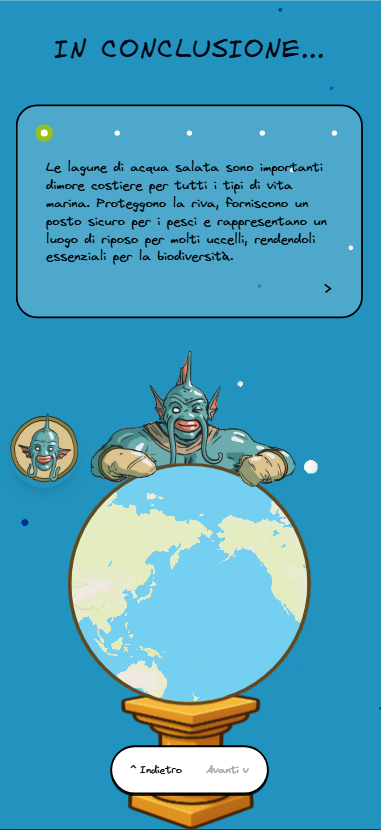
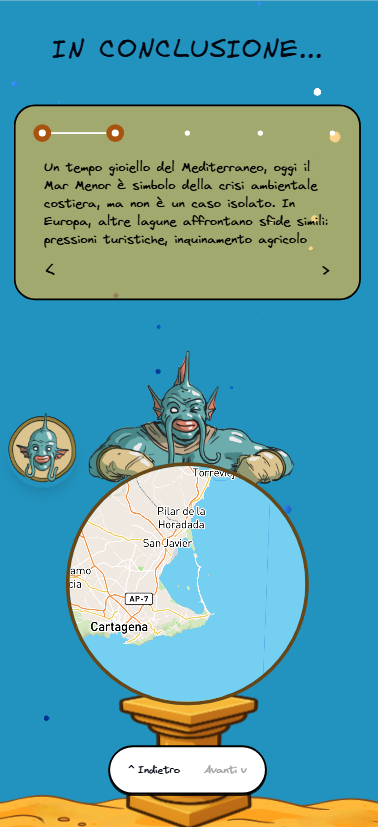
added algaes in the mar menor screen

diff --git a/src/components/sections/section2-lagoon-map.tsx b/src/components/sections/section2-lagoon-map.tsx
@@ -25,8 +25,14 @@ export const LagoonMapContent = () => {
     { src: "/assets/drawings/boat04c.png", alt: "boat 2", position: "left-40 absolute-center-y", size: "size-[50px]" },
   ],
   [
+    { src: "/assets/algae.png", alt: "algae 1", position: "right-60 bottom-72", size: "h-[25px] w-[60px]"},
+    { src: "/assets/algae.png", alt: "algae 2", position: "right-56 bottom-96", size: "h-[30px] w-[80px]"},
+    { src: "/assets/algae.png", alt: "algae 3", position: "right-40 bottom-80", size: "h-[25px] w-[40px]"},
+    { src: "/assets/algae.png", alt: "algae 4", position: "right-44 bottom-64", size: "h-[40px] w-[60px]"},
+    { src: "/assets/algae.png", alt: "algae 5", position: "right-72 bottom-80", size: "h-[40px] w-[70px]"},
+    { src: "/assets/algae.png", alt: "algae 6", position: "right-44 absolute-center-y", size: "h-[30px] w-[50px]"},
     { src: "/assets/dead-fish.png", alt: "dead fish 1", position: "left-36 bottom-56", size: "h-[40px] w-[80px]" },
-    { src: "/assets/dead-fish.png", alt: "dead fish 2", position: "left-40 bottom-96", size: "h-[30px] w-[80px]" },
+    { src: "/assets/dead-fish.png", alt: "dead fish 2", position: "left-52 bottom-96", size: "h-[30px] w-[80px]" },
     { src: "/assets/dead-fish.png", alt: "dead fish 3", position: "left-20 bottom-80", size: "h-[20px] w-[50px]" },
     { src: "/assets/dead-seahorse.png", alt: "dead seahorse 1", position: "left-20 bottom-96", size: "h-[30px] w-[50px]"},
     { src: "/assets/dead-seahorse.png", alt: "dead sesahorse 2", position: "right-40 bottom-72", size: "h-[40px] w-[70px]"},
